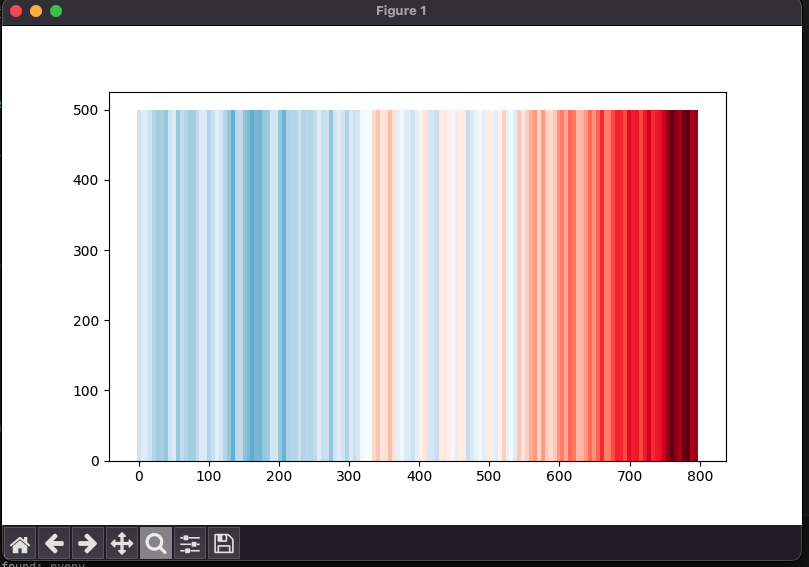
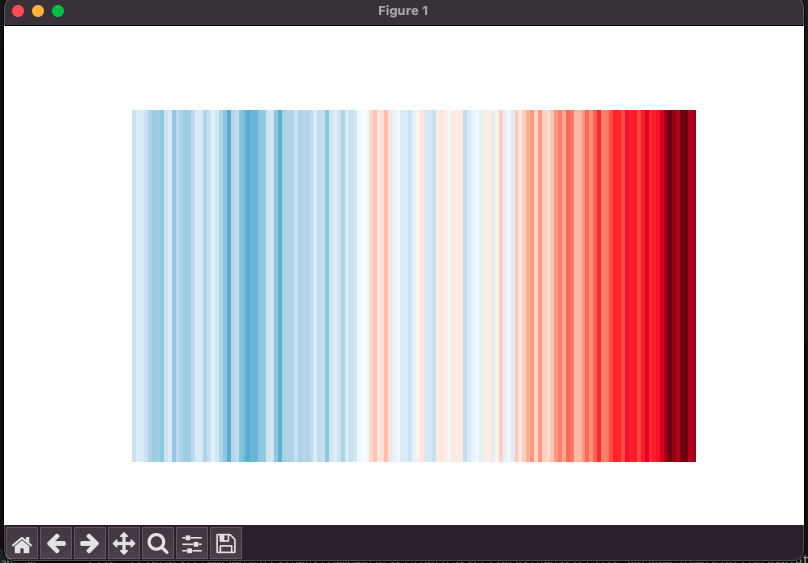
removing X Y axis for now

diff --git a/main.py b/main.py
@@ -9,7 +9,7 @@ data = pd.read_csv('data.csv')
 #code block 3, set up the plot 
 plt.figure(figsize=(8,5))
 plt.gca().set_aspect('equal', adjustable='box')
-#plt.axis('off')
+plt.axis('off')
 
 #code block 4, create the bar chart
 #each row represent each year that represent each bar
